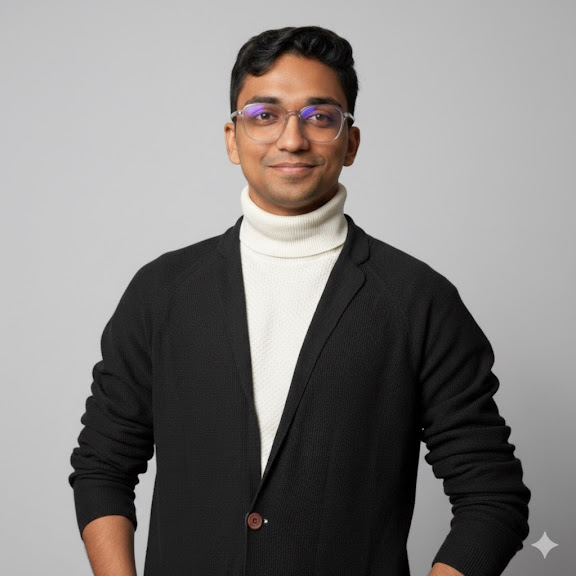
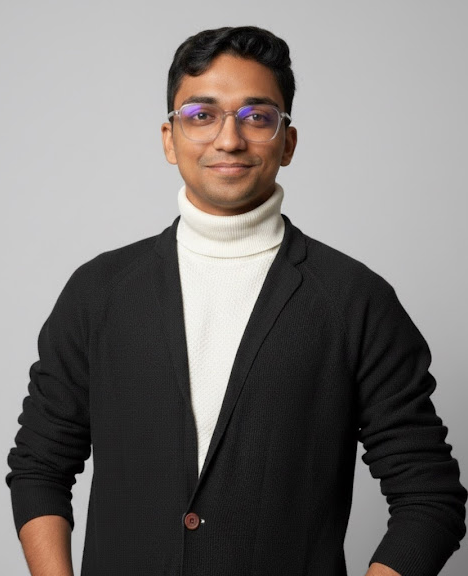
fixed profile picture and thumbnails

diff --git a/_projects/9_project.md b/_projects/9_project.md
@@ -2,7 +2,7 @@
 layout: page
 title: LTSpice Circuit Simulations
 description: MOSFET amplifier design and analysis
-img: assets/img/ltpice.png
+img: assets/img/ltspice.png
 importance: 9
 category: course project
 ---
